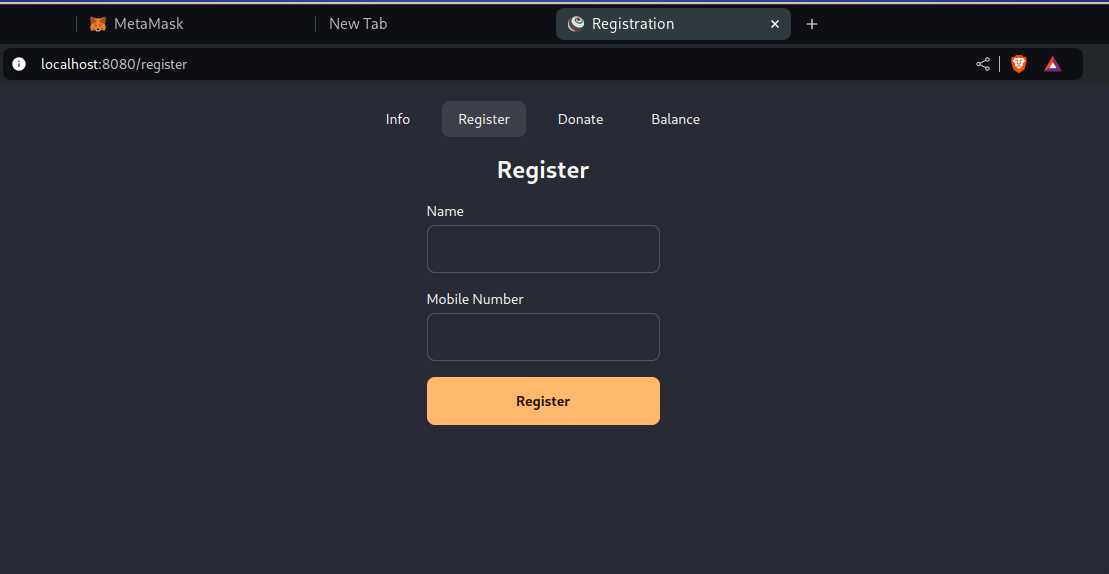
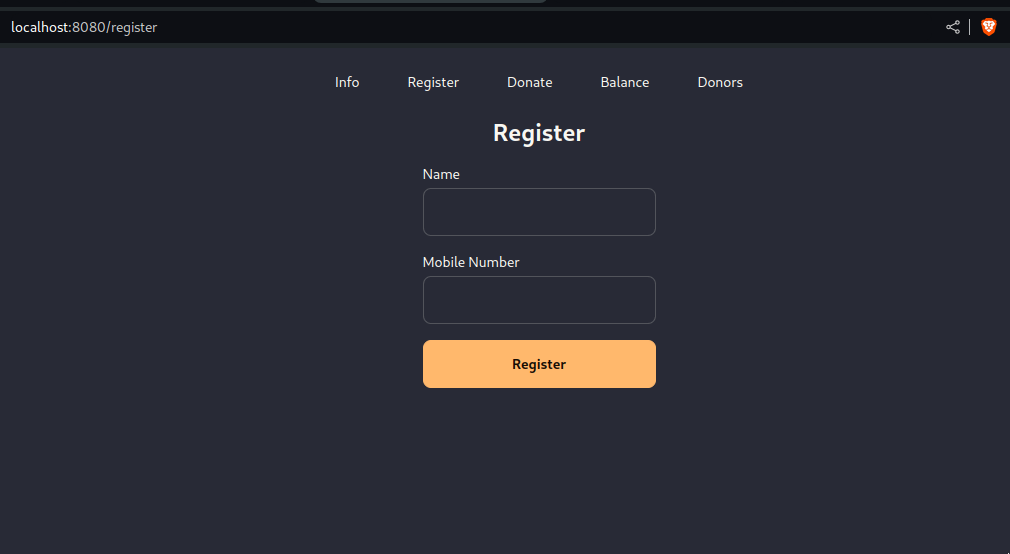
new feature check donor info added

diff --git a/client/src/components/CheckDonor.jsx b/client/src/components/CheckDonor.jsx
@@ -1,0 +1,79 @@
+import React, { useState, useEffect } from 'react';
+import { useEth } from '../contexts/EthContext';
+
+const CheckDonor = () => {
+  const { state: { contract } } = useEth();
+  const [accountAddress, setAccountAddress] = useState('');
+  const [donorInfo, setDonorInfo] = useState(null);
+  const [errorMsg, setErrorMsg] = useState('');
+
+  useEffect(() => {
+    document.title = 'Check Donor';
+  }, []);
+
+  const handleCheckDonor = async (e) => {
+    e.preventDefault();
+    
+    // Clear previous data
+    setErrorMsg('');
+    setDonorInfo(null);
+
+    if (!accountAddress.trim()) {
+      setErrorMsg('Please enter a valid address.');
+      return;
+    }
+
+    try {
+      // Fetch donor info
+      const result = await contract.methods.CheckDonorInfo(accountAddress).call();
+      setDonorInfo(result);
+    } catch (error) {
+      if (error.toString().includes("Donor not found")) {
+        setErrorMsg("Donor not found.");
+      } else {
+        setErrorMsg("An unexpected error occurred.");
+        console.error("Error fetching donor info:", error);
+      }
+    }
+  };
+
+  return (
+    <div className="flex justify-center p-4">
+      <div className="w-full max-w-md">
+        <h1 className="text-2xl font-bold mb-4 text-center">Check Donor</h1>
+        
+        <form onSubmit={handleCheckDonor} className="space-y-4">
+          <div>
+            <label htmlFor="accountAddress" className="block text-sm font-medium mb-1">Account Address</label>
+            <input
+              type="text"
+              id="accountAddress"
+              value={accountAddress}
+              onChange={(e) => setAccountAddress(e.target.value)}
+              className="input input-bordered w-full"
+              placeholder="Enter the donor's address"
+              required
+            />
+          </div>
+
+          <button type="submit" className="btn btn-accent w-full">
+            Find Donor
+          </button>
+        </form>
+
+        {/* Display Donor Information or Error Message */}
+        {errorMsg && <p className="text-red-500 text-center mt-4">{errorMsg}</p>}
+        {donorInfo && (
+          <div className="mt-4 text-center">
+            <h2 className="text-xl font-bold mb-2">Donor Found</h2>
+            <p><span className="font-bold">Address:</span> {accountAddress}</p>
+            <p><span className="font-bold">Name:</span> {donorInfo.name}</p>
+            <p><span className="font-bold">Mobile Number:</span> {donorInfo.mobileNumber}</p>
+          </div>
+        )}
+      </div>
+    </div>
+  );
+};
+
+export default CheckDonor;

diff --git a/client/src/components/Info.jsx b/client/src/components/Info.jsx
@@ -36,15 +36,21 @@ const Info = () => {
   return (
     <div className="flex justify-center p-4">
       <div className="text-center">
-        <h1 className="text-2xl font-bold mb-4 text-center">Welcome</h1> {/* Title added */}
-        <h1 className="text-2xl font-bold mb-4 text-center">To</h1> {/* Title added */}
-        <h1 className="text-2xl font-bold mb-4 text-center">Flood Relief Fund</h1> {/* Title added */}
+        <h1 className="text-2xl font-bold mb-4 text-center">Welcome</h1>
+        <h1 className="text-2xl font-bold mb-4 text-center">To</h1>
+        <h1 className="text-2xl font-bold mb-4 text-center">Flood Relief Fund</h1>
         {errorMsg ? (
           <div>
-            <h2 className="text-xl mb-2">
+            {/* <h2 className="text-xl mb-2">
               <span className="font-bold">Address:</span> {accounts[0]}
-            </h2>
+            </h2> */}
             <p className="mb-4">{errorMsg}</p>
+            <p className="mb-4 text-xl">We are Oppen. We are looking for DONORS!</p>
+            <img
+              src="https://i.ytimg.com/vi/anB_JN7mFeM/hq720.jpg?sqp=-oaymwE7CK4FEIIDSFryq4qpAy0IARUAAAAAGAElAADIQj0AgKJD8AEB-AG2CIACoAuKAgwIABABGHIgRSgzMA8=&rs=AOn4CLC8MZncUxYo2rEZxoZPAb0u1YghQw" // Placeholder image URL, replace with the actual image source
+              alt="We are looking for donors"
+              className="mx-auto mb-4"
+            />
             <button className="btn btn-accent" onClick={() => window.location.href = '/register'}>
               Register
             </button>

diff --git a/client/src/App.jsx b/client/src/App.jsx
@@ -6,6 +6,7 @@ import Balance from './components/Balance';
 import Donate from './components/Donate';
 import Info from './components/Info';
 import Register from './components/Register';
+import CheckDonor from './components/CheckDonor';
 
 function App() {
   return (
@@ -19,6 +20,7 @@ function App() {
               <Route path="/register" element={<Register />} />
               <Route path="/donate" element={<Donate />} />
               <Route path="/balance" element={<Balance />} />
+              <Route path="/donors" element={<CheckDonor />} />
               <Route path="*" element={<h1>404 Not Found</h1>} />
             </Routes>
           </div>

diff --git a/client/src/components/Navbar.jsx b/client/src/components/Navbar.jsx
@@ -11,6 +11,7 @@ function Navbar() {
           <li><Link to="/register">Register</Link></li>
           <li><Link to="/donate">Donate</Link></li>
           <li><Link to="/balance">Balance</Link></li>
+          <li><Link to="/donors">Donors</Link></li>
         </ul>
       </div>
       <div className="navbar-end flex-1"></div> {/* Creates space on the right */}

diff --git a/README.md b/README.md
@@ -66,3 +66,8 @@ A project where one can donate cryptocurrencies and the fundraiser and collect c
 * See all the fundraiser balance and total funds in the `Balance` page.
 
   ![4](./screenshots/4.png)
+
+* If you want see any donor info just go to the `Check Donor` page by clicking on the `Donors`. Provide the public address of the donors and press `Find`.
+
+  ![5](/home/abir/CSE446/FloodReliefFund/screenshots/5.png)
+
